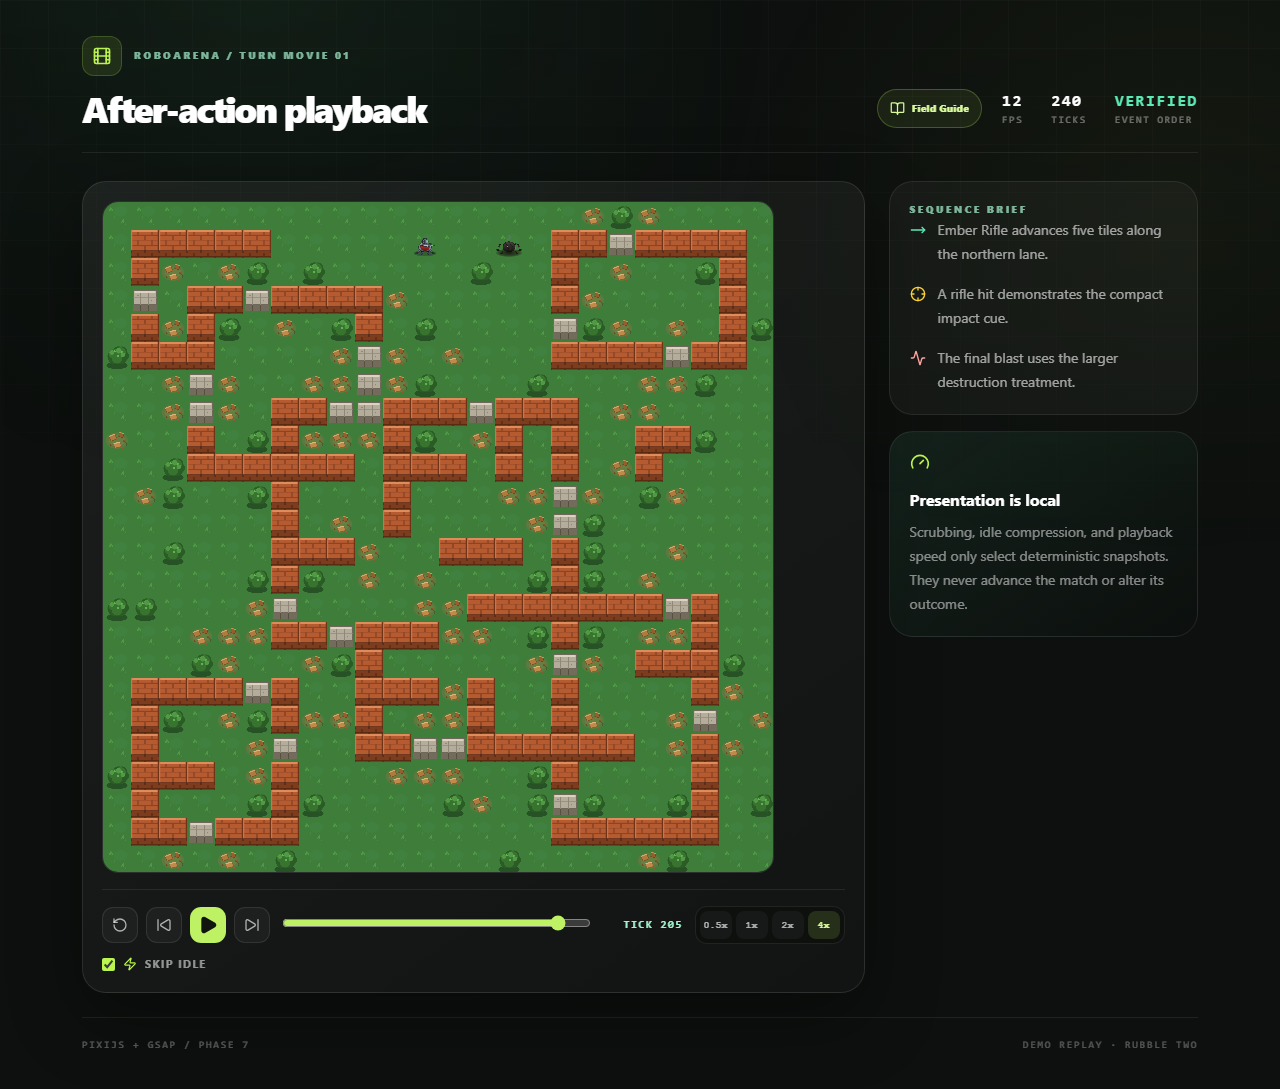
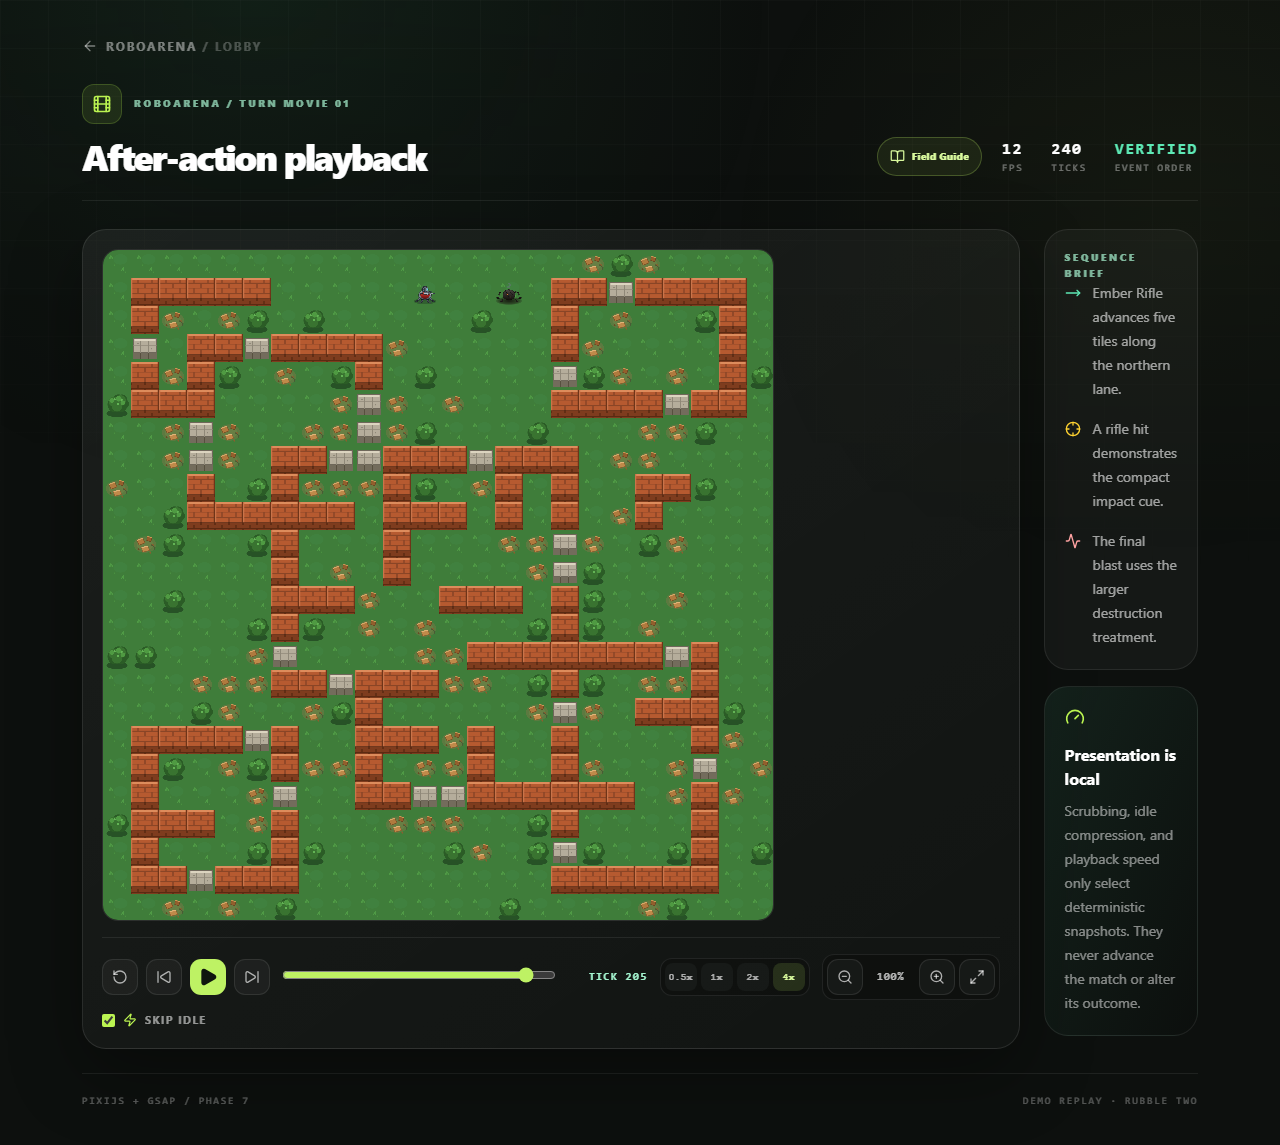
@ Add lobby breadcrumb and mouse zoom/pan to the replay movie
Playtest feedback on the standalone Terrain lab and Replay demo pages:

- Both pages were dead-ends with no way back. Add a shared
  LobbyBreadcrumb ("<- RoboArena / Lobby") to each header.
- Replay had no desktop zoom. Surface the existing viewTransform via a
  zoom cluster (- / % / + / reset) in MovieControls, clamped 0.5x-3x,
  zooming about the viewport center; add cursor-anchored wheel zoom via
  a non-passive native listener (React onWheel is passive).
- Replay could not pan with a mouse. Drop the touch-only gate on the
  pointer handlers so the primary mouse button drives the existing pan,
  with a grab/grabbing cursor shown when zoomed in. Pinch stays
  touch-only (two-pointer branch).
- Parameterize transformForPinch/scaleForPinch with an optional
  clampScale (defaults to the planner clamp) so the movie pinch honors
  the same 0.5x-3x bounds as its buttons and wheel.

Regenerated the movie and arena-preview visual baselines for the added
breadcrumb and zoom row. Tests: added a pointerGestures case covering a
caller-supplied clamp; full unit suite (274) and both visual specs pass.

@

diff --git a/src/renderer/MoviePlayer.tsx b/src/renderer/MoviePlayer.tsx
@@ -35,6 +35,14 @@ export interface MoviePlayerProps {
   readonly onTickChange?: (tick: number) => void;
 }
 
+/** Zoom bounds shared by buttons, wheel, and pinch clamping. */
+const MIN_ZOOM = 0.5;
+const MAX_ZOOM = 3;
+/** Multiplier applied per zoom-in/out button press. */
+const ZOOM_STEP = 1.25;
+
+const clampZoom = (scale: number): number => Math.min(MAX_ZOOM, Math.max(MIN_ZOOM, scale));
+
 export function MoviePlayer({
   initialState,
   events,
@@ -43,6 +51,7 @@ export function MoviePlayer({
   onTickChange,
 }: MoviePlayerProps) {
   const hostRef = useRef<HTMLDivElement>(null);
+  const viewportRef = useRef<HTMLDivElement>(null);
   const renderSnapshotRef = useRef<(index: number, animate: boolean) => void>(() => undefined);
   const timeline = useMemo(() => buildMovieTimeline(initialState, events), [initialState, events]);
   const initialIndex = useMemo(() => {
@@ -61,6 +70,7 @@ export function MoviePlayer({
   const [rendererStatus, setRendererStatus] = useState<"loading" | "ready" | "error">("loading");
   const [reducedMotion, setReducedMotion] = useState(false);
   const [viewTransform, setViewTransform] = useState({ x: 0, y: 0, scale: 1 });
+  const [grabbing, setGrabbing] = useState(false);
   const viewTransformRef = useRef(viewTransform);
   viewTransformRef.current = viewTransform;
   const viewPointersRef = useRef(new Map<number, Point>());
@@ -95,6 +105,49 @@ export function MoviePlayer({
     },
     [timeline.ticks.length],
   );
+
+  // Zoom about a viewport-local focal point, keeping that point stationary
+  // on screen. The CSS transform is `translate(x,y) scale(s)` with a 0,0
+  // origin, so the content point under the focus is (focus - translate) / s;
+  // holding it fixed at the new scale yields the corrected translation.
+  const zoomAbout = useCallback((focal: Point, nextScale: number) => {
+    setViewTransform((transform) => {
+      const scale = clampZoom(nextScale);
+      if (scale === transform.scale) return transform;
+      const contentX = (focal.x - transform.x) / transform.scale;
+      const contentY = (focal.y - transform.y) / transform.scale;
+      return { scale, x: focal.x - contentX * scale, y: focal.y - contentY * scale };
+    });
+  }, []);
+
+  const viewportCenter = useCallback((): Point => {
+    const rect = viewportRef.current?.getBoundingClientRect();
+    if (rect === undefined) return { x: 0, y: 0 };
+    return { x: rect.width / 2, y: rect.height / 2 };
+  }, []);
+
+  const zoomByStep = useCallback(
+    (factor: number) => zoomAbout(viewportCenter(), viewTransformRef.current.scale * factor),
+    [viewportCenter, zoomAbout],
+  );
+
+  const resetView = useCallback(() => setViewTransform({ x: 0, y: 0, scale: 1 }), []);
+
+  // Wheel zoom needs a non-passive native listener so preventDefault can stop
+  // the page from scrolling underneath the movie. React's synthetic onWheel is
+  // registered passively and cannot cancel the default.
+  useEffect(() => {
+    const viewport = viewportRef.current;
+    if (viewport === null) return;
+    const onWheel = (event: WheelEvent) => {
+      event.preventDefault();
+      const rect = viewport.getBoundingClientRect();
+      const focal = { x: event.clientX - rect.left, y: event.clientY - rect.top };
+      zoomAbout(focal, viewTransformRef.current.scale * Math.pow(1.0015, -event.deltaY));
+    };
+    viewport.addEventListener("wheel", onWheel, { passive: false });
+    return () => viewport.removeEventListener("wheel", onWheel);
+  }, [zoomAbout]);
 
   useEffect(() => {
     if (!playing || rendererStatus !== "ready") return;
@@ -244,14 +297,17 @@ export function MoviePlayer({
       data-animation-cues={animationCues}
     >
       <div
+        ref={viewportRef}
         className="movie-viewport"
         style={{
           width: initialState.arena.width * MOVIE_TILE_SIZE,
           height: initialState.arena.height * MOVIE_TILE_SIZE,
           touchAction: "none",
+          cursor: grabbing ? "grabbing" : viewTransform.scale > 1 ? "grab" : "default",
         }}
         onPointerDown={(event) => {
-          if (event.pointerType !== "touch") return;
+          // Mouse: only the primary button drags. Touch/pen: always pan/pinch.
+          if (event.pointerType === "mouse" && event.button !== 0) return;
           event.currentTarget.setPointerCapture(event.pointerId);
           const point = { x: event.clientX, y: event.clientY };
           viewPointersRef.current.set(event.pointerId, point);
@@ -263,6 +319,7 @@ export function MoviePlayer({
               transform: viewTransformRef.current,
               moved: false,
             };
+            if (event.pointerType !== "touch") setGrabbing(true);
           } else if (points.length === 2) {
             const [first, second] = points;
             if (first === undefined || second === undefined) return;
@@ -279,8 +336,7 @@ export function MoviePlayer({
           }
         }}
         onPointerMove={(event) => {
-          if (event.pointerType !== "touch" || !viewPointersRef.current.has(event.pointerId))
-            return;
+          if (!viewPointersRef.current.has(event.pointerId)) return;
           const point = { x: event.clientX, y: event.clientY };
           viewPointersRef.current.set(event.pointerId, point);
           const points = [...viewPointersRef.current.values()];
@@ -300,6 +356,7 @@ export function MoviePlayer({
                 currentMidpoint: midpoint,
                 initialDistance: pinch.distance,
                 currentDistance: pointDistance(first, second),
+                clampScale: clampZoom,
               }),
             );
             return;
@@ -322,11 +379,13 @@ export function MoviePlayer({
           viewPointersRef.current.delete(event.pointerId);
           if (viewPointersRef.current.size < 2) pinchRef.current = null;
           if (panRef.current?.pointerId === event.pointerId) panRef.current = null;
+          if (viewPointersRef.current.size === 0) setGrabbing(false);
         }}
         onPointerCancel={(event) => {
           viewPointersRef.current.delete(event.pointerId);
           panRef.current = null;
           pinchRef.current = null;
+          setGrabbing(false);
         }}
       >
         <div
@@ -353,6 +412,9 @@ export function MoviePlayer({
         tick={tick}
         speed={speed}
         compressIdle={compressIdle}
+        zoom={viewTransform.scale}
+        canZoomIn={viewTransform.scale < MAX_ZOOM}
+        canZoomOut={viewTransform.scale > MIN_ZOOM}
         onTogglePlaying={() => setPlaying((value) => !value)}
         onStepBack={() => seek(currentIndex - 1)}
         onStepForward={() => seek(currentIndex + 1)}
@@ -360,6 +422,9 @@ export function MoviePlayer({
         onScrub={seek}
         onSpeedChange={setSpeed}
         onCompressIdleChange={setCompressIdle}
+        onZoomIn={() => zoomByStep(ZOOM_STEP)}
+        onZoomOut={() => zoomByStep(1 / ZOOM_STEP)}
+        onZoomReset={resetView}
       />
       <p className="sr-only" aria-live="polite">
         Movie at tick {tick}

diff --git a/src/components/MovieControls.tsx b/src/components/MovieControls.tsx
@@ -1,6 +1,16 @@
 "use client";
 
-import { Pause, Play, RotateCcw, SkipBack, SkipForward, Zap } from "lucide-react";
+import {
+  Maximize2,
+  Pause,
+  Play,
+  RotateCcw,
+  SkipBack,
+  SkipForward,
+  Zap,
+  ZoomIn,
+  ZoomOut,
+} from "lucide-react";
 
 export type MovieSpeed = 0.5 | 1 | 2 | 4;
 
@@ -12,6 +22,9 @@ interface MovieControlsProps {
   readonly tick: number;
   readonly speed: MovieSpeed;
   readonly compressIdle: boolean;
+  readonly zoom: number;
+  readonly canZoomIn: boolean;
+  readonly canZoomOut: boolean;
   readonly onTogglePlaying: () => void;
   readonly onStepBack: () => void;
   readonly onStepForward: () => void;
@@ -19,6 +32,9 @@ interface MovieControlsProps {
   readonly onScrub: (index: number) => void;
   readonly onSpeedChange: (speed: MovieSpeed) => void;
   readonly onCompressIdleChange: (enabled: boolean) => void;
+  readonly onZoomIn: () => void;
+  readonly onZoomOut: () => void;
+  readonly onZoomReset: () => void;
 }
 
 const SPEEDS: readonly MovieSpeed[] = [0.5, 1, 2, 4];
@@ -106,6 +122,46 @@ export function MovieControls(props: MovieControlsProps) {
             {speed}x
           </button>
         ))}
+      </div>
+
+      <div
+        className="flex items-center gap-1 rounded-xl border border-white/8 bg-black/20 p-1"
+        aria-label="Movie zoom"
+      >
+        <button
+          className="transport-button"
+          type="button"
+          onClick={props.onZoomOut}
+          aria-label="Zoom out"
+          disabled={props.disabled || !props.canZoomOut}
+        >
+          <ZoomOut aria-hidden="true" className="size-4" />
+        </button>
+        <span
+          className="w-12 text-center font-mono text-[11px] font-bold tracking-[0.08em] text-white/70"
+          aria-live="polite"
+          data-movie-zoom
+        >
+          {Math.round(props.zoom * 100)}%
+        </span>
+        <button
+          className="transport-button"
+          type="button"
+          onClick={props.onZoomIn}
+          aria-label="Zoom in"
+          disabled={props.disabled || !props.canZoomIn}
+        >
+          <ZoomIn aria-hidden="true" className="size-4" />
+        </button>
+        <button
+          className="transport-button"
+          type="button"
+          onClick={props.onZoomReset}
+          aria-label="Reset zoom"
+          disabled={props.disabled}
+        >
+          <Maximize2 aria-hidden="true" className="size-4" />
+        </button>
       </div>
 
       <label

diff --git a/src/components/LobbyBreadcrumb.tsx b/src/components/LobbyBreadcrumb.tsx
@@ -1,0 +1,26 @@
+import { ArrowLeft } from "lucide-react";
+import Link from "next/link";
+
+/**
+ * Upper-left return path shown on standalone pages reached from the lobby
+ * (Terrain lab, Replay demo). These App Router pages render without the
+ * lobby's nav shell, so each needs its own inbound link home.
+ */
+export function LobbyBreadcrumb() {
+  return (
+    <nav aria-label="Breadcrumb" className="mb-6">
+      <Link
+        href="/"
+        className="group inline-flex cursor-pointer items-center gap-2 text-xs font-bold uppercase tracking-[0.16em] text-white/45 transition-colors hover:text-white focus-visible:text-white focus-visible:outline-none"
+      >
+        <ArrowLeft
+          aria-hidden="true"
+          className="size-4 transition-transform group-hover:-translate-x-0.5"
+        />
+        <span>
+          RoboArena <span className="text-white/25">/ Lobby</span>
+        </span>
+      </Link>
+    </nav>
+  );
+}

diff --git a/src/lib/input/pointerGestures.test.ts b/src/lib/input/pointerGestures.test.ts
@@ -25,6 +25,23 @@ describe("pointer gesture arbitration", () => {
     expect(scaleForPinch(1, 100, 1)).toBe(MIN_ARENA_SCALE);
   });
 
+  it("honors a caller-supplied clamp so the movie can use its own zoom bounds", () => {
+    const clampMovie = (scale: number): number => Math.min(3, Math.max(0.5, scale));
+    // Beyond the planner's 2x ceiling but within the movie's 3x ceiling.
+    expect(scaleForPinch(1, 100, 250, clampMovie)).toBe(2.5);
+    expect(scaleForPinch(1, 100, 1000, clampMovie)).toBe(3);
+    expect(scaleForPinch(1, 100, 1, clampMovie)).toBe(0.5);
+    const transformed = transformForPinch({
+      initialTransform: { x: 0, y: 0, scale: 1 },
+      initialMidpoint: { x: 100, y: 100 },
+      currentMidpoint: { x: 100, y: 100 },
+      initialDistance: 100,
+      currentDistance: 250,
+      clampScale: clampMovie,
+    });
+    expect(transformed.scale).toBe(2.5);
+  });
+
   it("keeps the original world point under the moving pinch midpoint", () => {
     const transformed = transformForPinch({
       initialTransform: { x: 20, y: -10, scale: 1 },

diff --git a/src/lib/input/pointerGestures.ts b/src/lib/input/pointerGestures.ts
@@ -27,10 +27,9 @@ export const scaleForPinch = (
   initialScale: number,
   initialDistance: number,
   distance: number,
+  clampScale: (scale: number) => number = clampArenaScale,
 ): number =>
-  clampArenaScale(
-    initialDistance <= 0 ? initialScale : initialScale * (distance / initialDistance),
-  );
+  clampScale(initialDistance <= 0 ? initialScale : initialScale * (distance / initialDistance));
 
 export const transformForPinch = ({
   initialTransform,
@@ -38,14 +37,21 @@ export const transformForPinch = ({
   currentMidpoint,
   initialDistance,
   currentDistance,
+  clampScale = clampArenaScale,
 }: {
   readonly initialTransform: ArenaTransform;
   readonly initialMidpoint: Point;
   readonly currentMidpoint: Point;
   readonly initialDistance: number;
   readonly currentDistance: number;
+  readonly clampScale?: (scale: number) => number;
 }): ArenaTransform => {
-  const scale = scaleForPinch(initialTransform.scale, initialDistance, currentDistance);
+  const scale = scaleForPinch(
+    initialTransform.scale,
+    initialDistance,
+    currentDistance,
+    clampScale,
+  );
   const scaleRatio = scale / initialTransform.scale;
   return {
     x: currentMidpoint.x - (initialMidpoint.x - initialTransform.x) * scaleRatio,

diff --git a/src/app/movie/[id]/page.tsx b/src/app/movie/[id]/page.tsx
@@ -1,6 +1,7 @@
 import { Activity, Crosshair, Film, Gauge, MoveRight } from "lucide-react";
 import { notFound } from "next/navigation";
 import { FieldGuideButton } from "../../../components/help/HelpProvider";
+import { LobbyBreadcrumb } from "../../../components/LobbyBreadcrumb";
 import { MovieExperience } from "../../../components/MovieExperience";
 import { createCannedMovie } from "../../../lib/replays/cannedMovie";
 
@@ -19,6 +20,7 @@ export default async function MoviePage({ params, searchParams }: MoviePageProps
     <main className="desktop-viewport-gate min-h-screen overflow-hidden bg-[#0d100e] text-white">
       <div className="ambient-grid" aria-hidden="true" />
       <div className="relative mx-auto max-w-[1180px] px-8 py-9">
+        <LobbyBreadcrumb />
         <header className="mb-7 flex items-end justify-between border-b border-white/8 pb-6">
           <div>
             <div className="mb-3 flex items-center gap-3">

diff --git a/src/app/preview/page.tsx b/src/app/preview/page.tsx
@@ -1,5 +1,6 @@
 import { Layers3, Radar } from "lucide-react";
 import { ArenaPreview } from "../../components/ArenaPreview";
+import { LobbyBreadcrumb } from "../../components/LobbyBreadcrumb";
 import { arenaProvenance, loadArena } from "../../lib/arenas";
 
 export default async function PreviewPage() {
@@ -13,6 +14,7 @@ export default async function PreviewPage() {
     <main className="min-h-screen overflow-hidden bg-[#0d100e] text-white">
       <div className="ambient-grid" aria-hidden="true" />
       <div className="relative mx-auto max-w-[1280px] px-8 py-10 2xl:px-4">
+        <LobbyBreadcrumb />
         <header className="mb-8 flex items-end justify-between gap-8 border-b border-white/8 pb-7">
           <div className="max-w-3xl">
             <div className="mb-4 flex items-center gap-3">